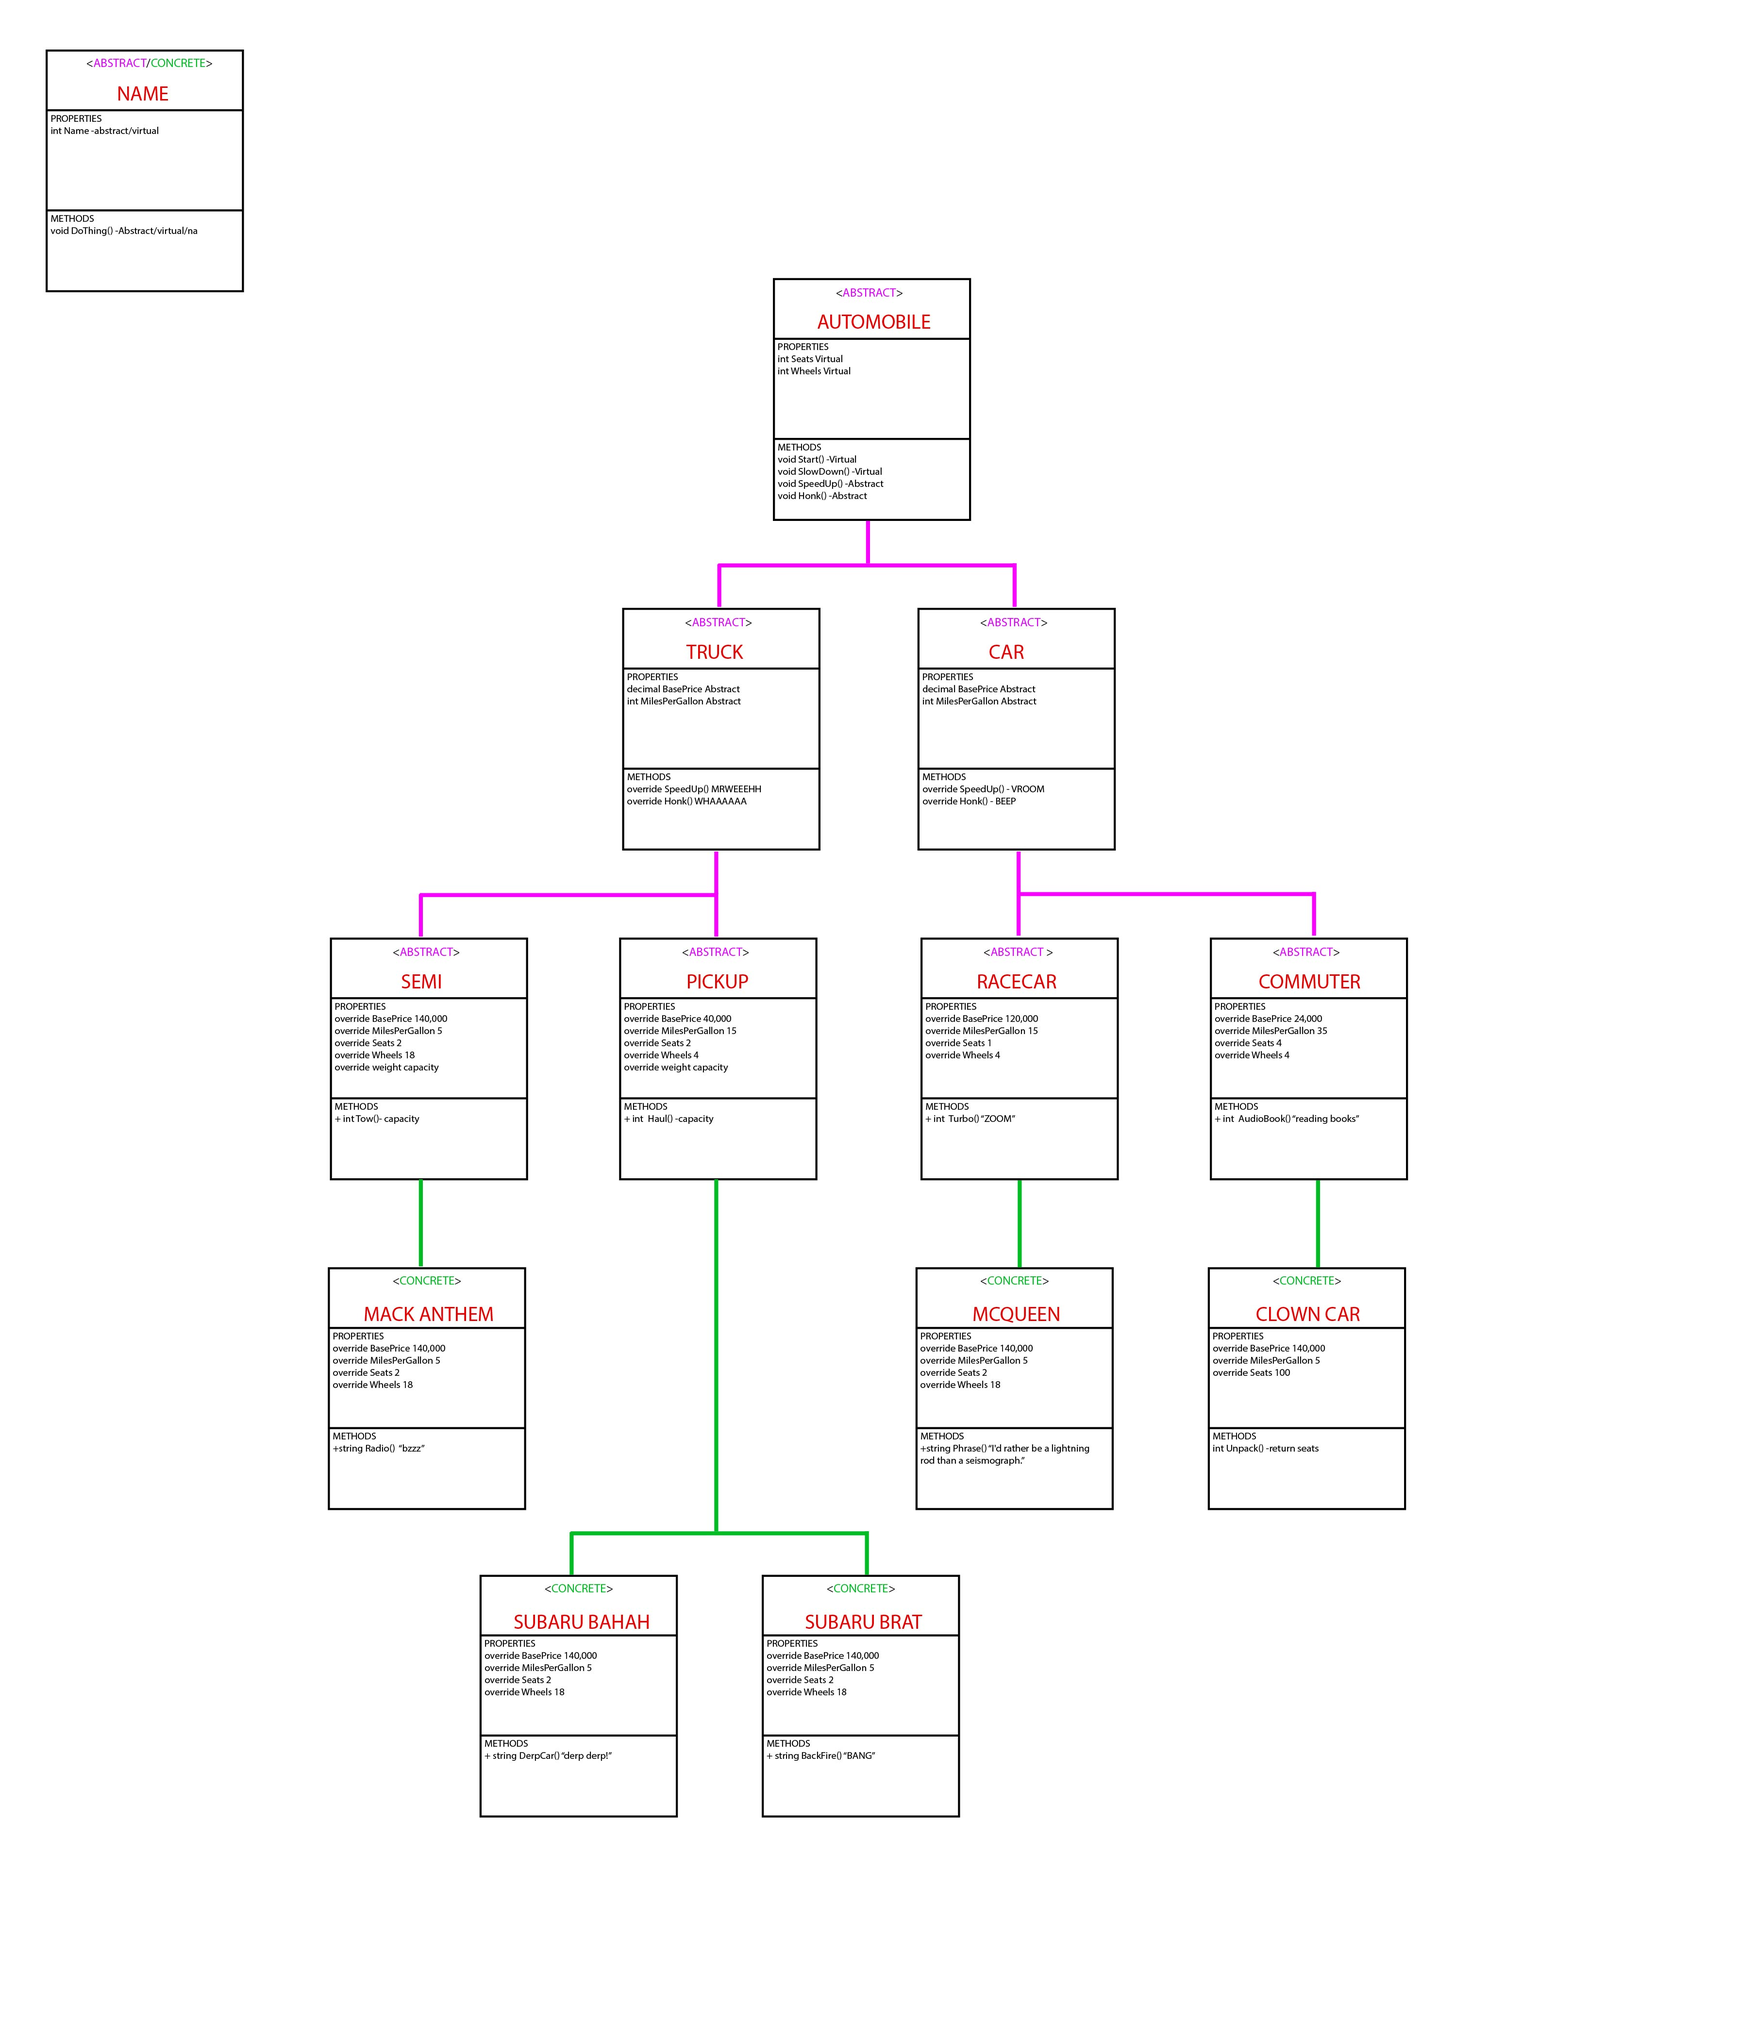
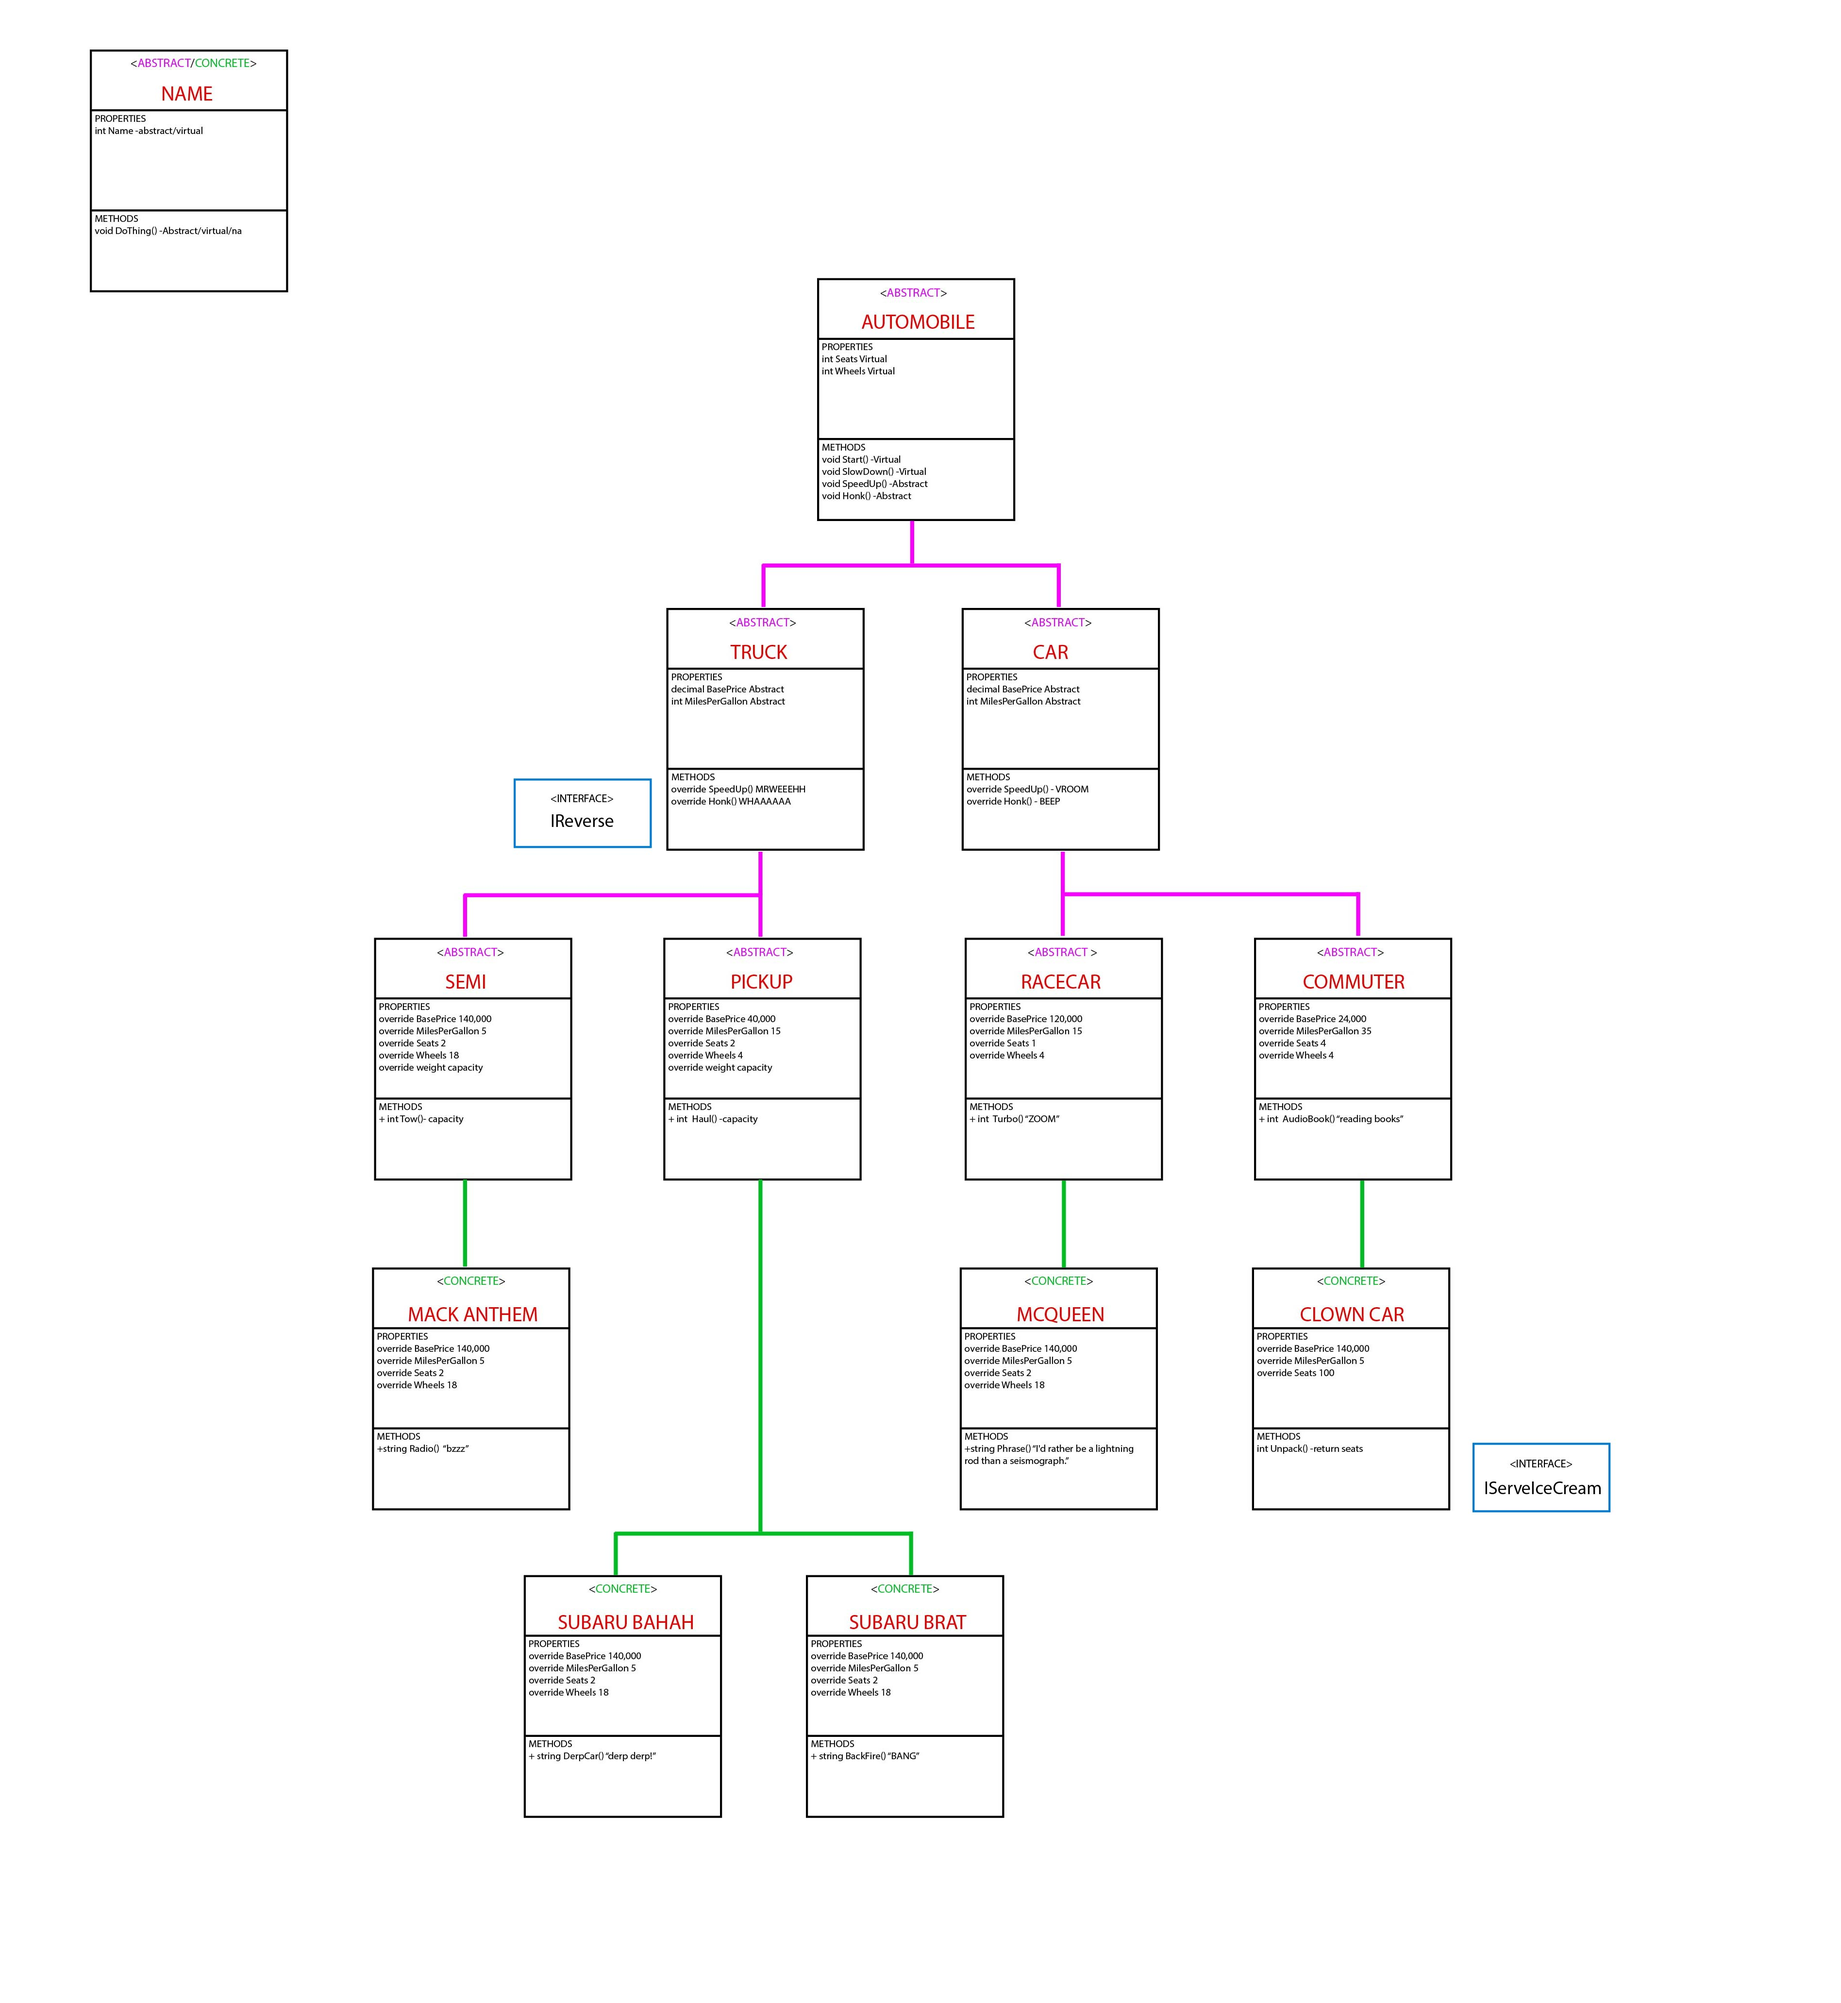
readme assets

diff --git a/Lab05-dotnet-motors/Lab05-dotnet-motors/Classes/ClownCar.cs b/Lab05-dotnet-motors/Lab05-dotnet-motors/Classes/ClownCar.cs
@@ -4,13 +4,20 @@ using System.Text;
 
 namespace Lab05_dotnet_motors.Classes
 {
-    public class ClownCar : CommuterCar
+    public class ClownCar : CommuterCar, IServeIceCream
     {
         
         public override decimal BasePrice { get; set; }
         public override decimal MilesPerGalon { get; set; }
         public override int Seats { get; set; }
         public override int Wheels { get; set; }
+
+        public string ServeIceCream()
+        {
+            Console.WriteLine("Here ya go kids!");
+            return "Here ya go kids!";
+        }
+
         public string Unpack()
         {
             return "100 clowns get out";

diff --git a/Lab05-dotnet-motors/TestDotNetMotors/UnitTest1.cs b/Lab05-dotnet-motors/TestDotNetMotors/UnitTest1.cs
@@ -357,6 +357,14 @@ namespace TestDotNetMotors
             Assert.Equal("beeep beeep beeep", s);
         }
 
+        [Fact]
+        public void IServeIceCreamClownCar()
+        {
+            ClownCar vehicle = new ClownCar();
+            string s = vehicle.ServeIceCream();
+            Assert.Equal("Here ya go kids!", s);
+        }
+
         //ClownCar
         //McQueen
         //MackAnthem

diff --git a/Lab05-dotnet-motors/Lab05-dotnet-motors/Classes/IServeIceCream.cs b/Lab05-dotnet-motors/Lab05-dotnet-motors/Classes/IServeIceCream.cs
@@ -1,0 +1,11 @@
+using System;
+using System.Collections.Generic;
+using System.Text;
+
+namespace Lab05_dotnet_motors.Classes
+{
+    public interface IServeIceCream
+    {
+        string ServeIceCream();
+    }
+}
